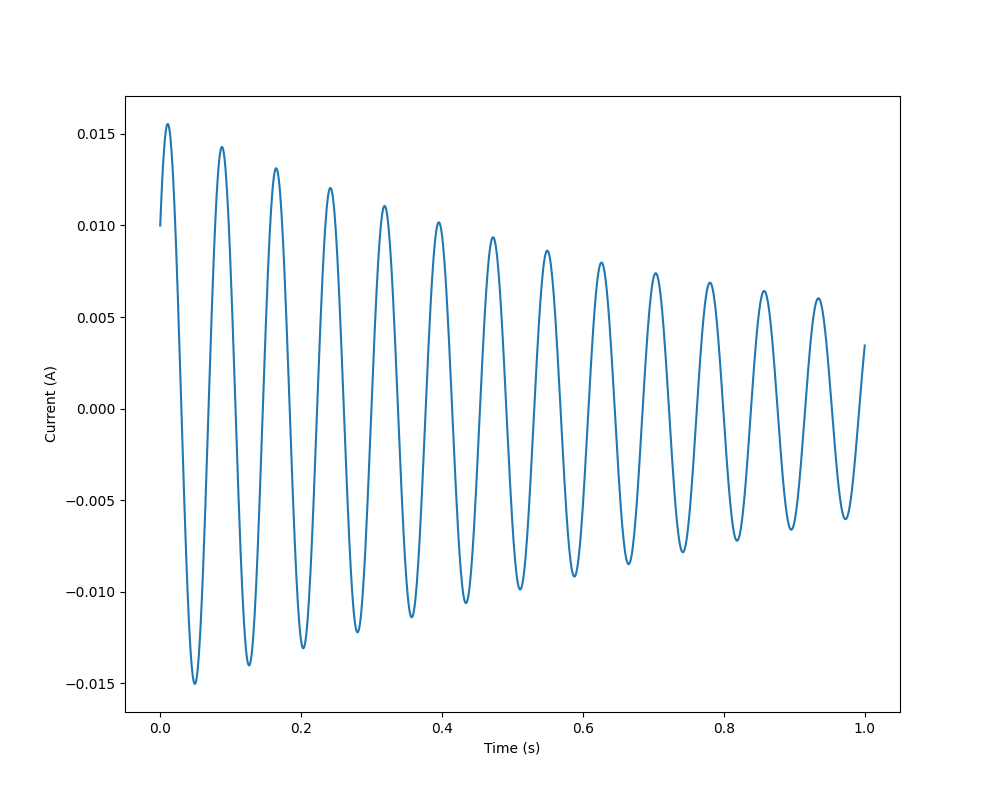
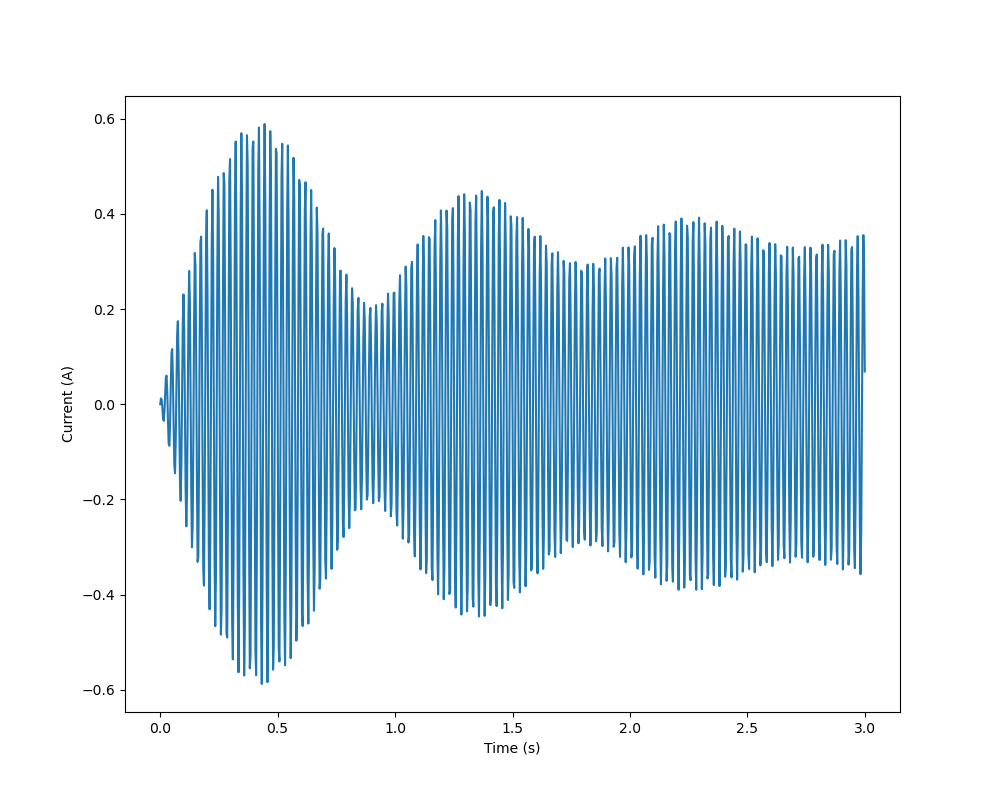
fixes

diff --git a/main.py b/main.py
@@ -5,19 +5,20 @@ import CircuitLRC
 import numpy as np
 
 # Model an RLC circuit with 40hz AC voltage
-t = np.linspace(0, 1, 1000)
+t = np.linspace(0, 3, 1000)
 
 Q0 = 0
-I0 = 0.01
+I0 = 0
 
 R = 2
 L = 1
-C = 0.00015
+C = 0.000015
 
+Emax = 5
 w = 2*np.pi*40
 phi = 0
 def E(t):
-	return np.cos(3*t)
+	return Emax*np.cos(w*t + phi)
 
 lrc = CircuitLRC.CircuitLRC(Q0, I0, R, C, L, E, t)
 lrc.graph('circuit', 'Time (s)', 'Current (A)')
